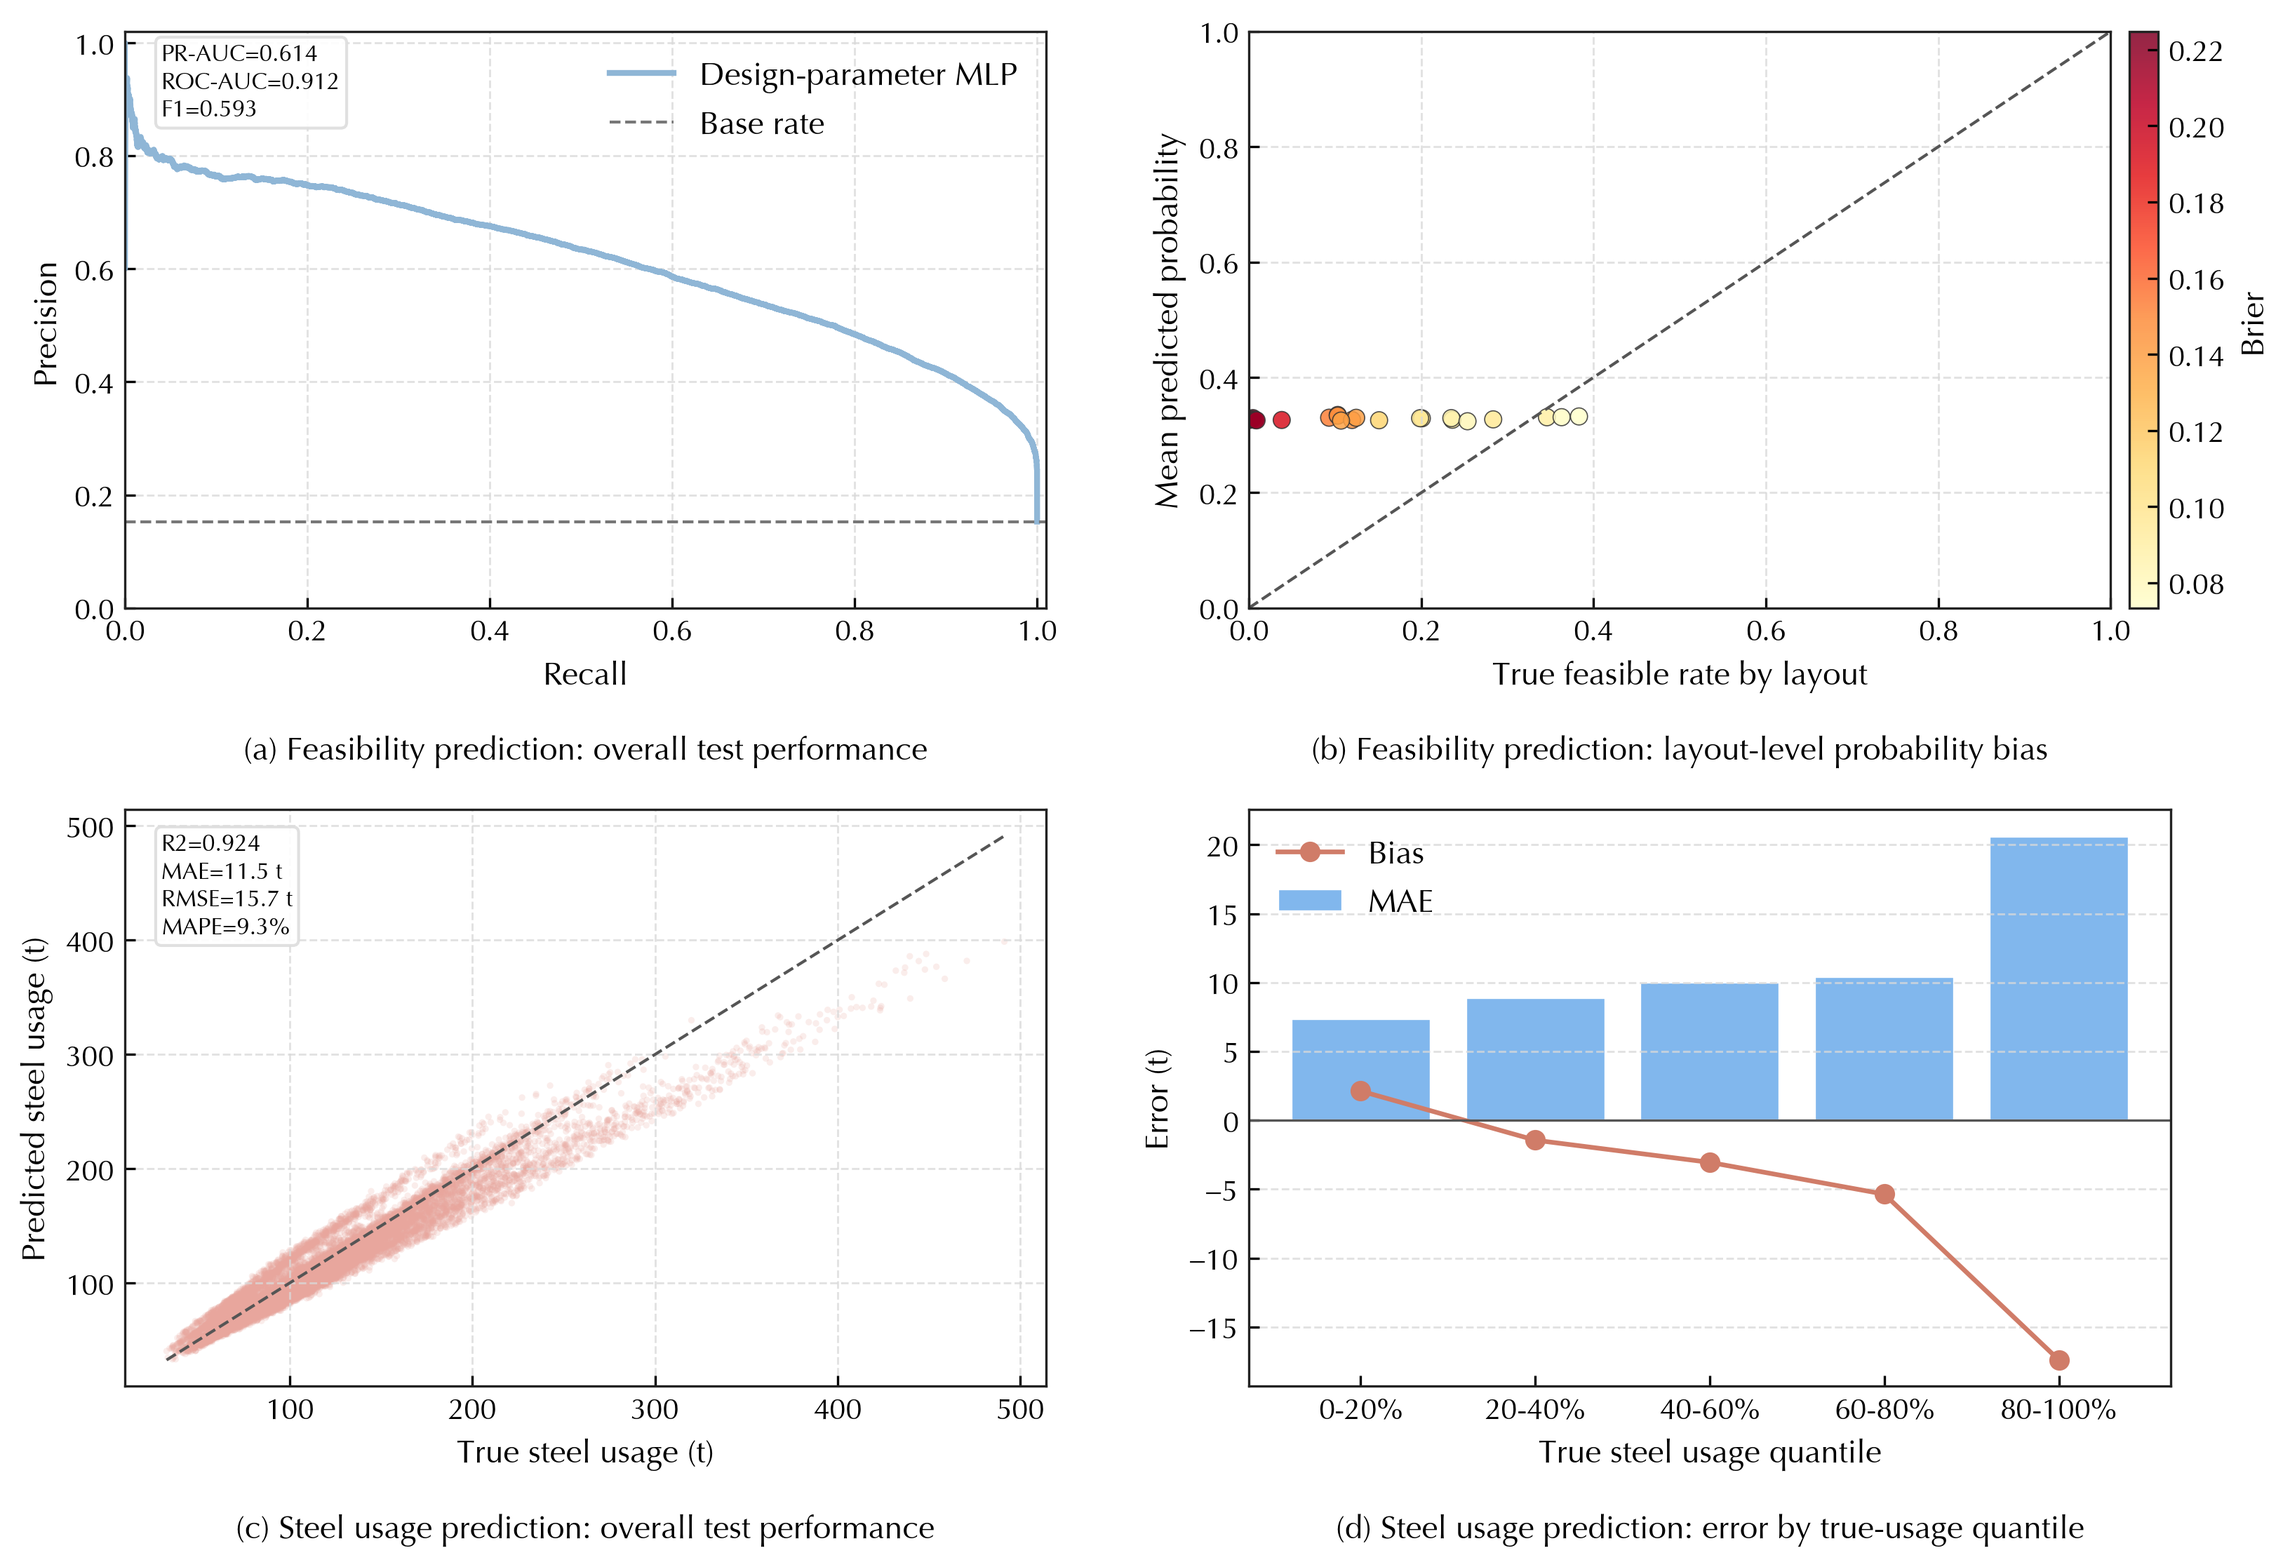
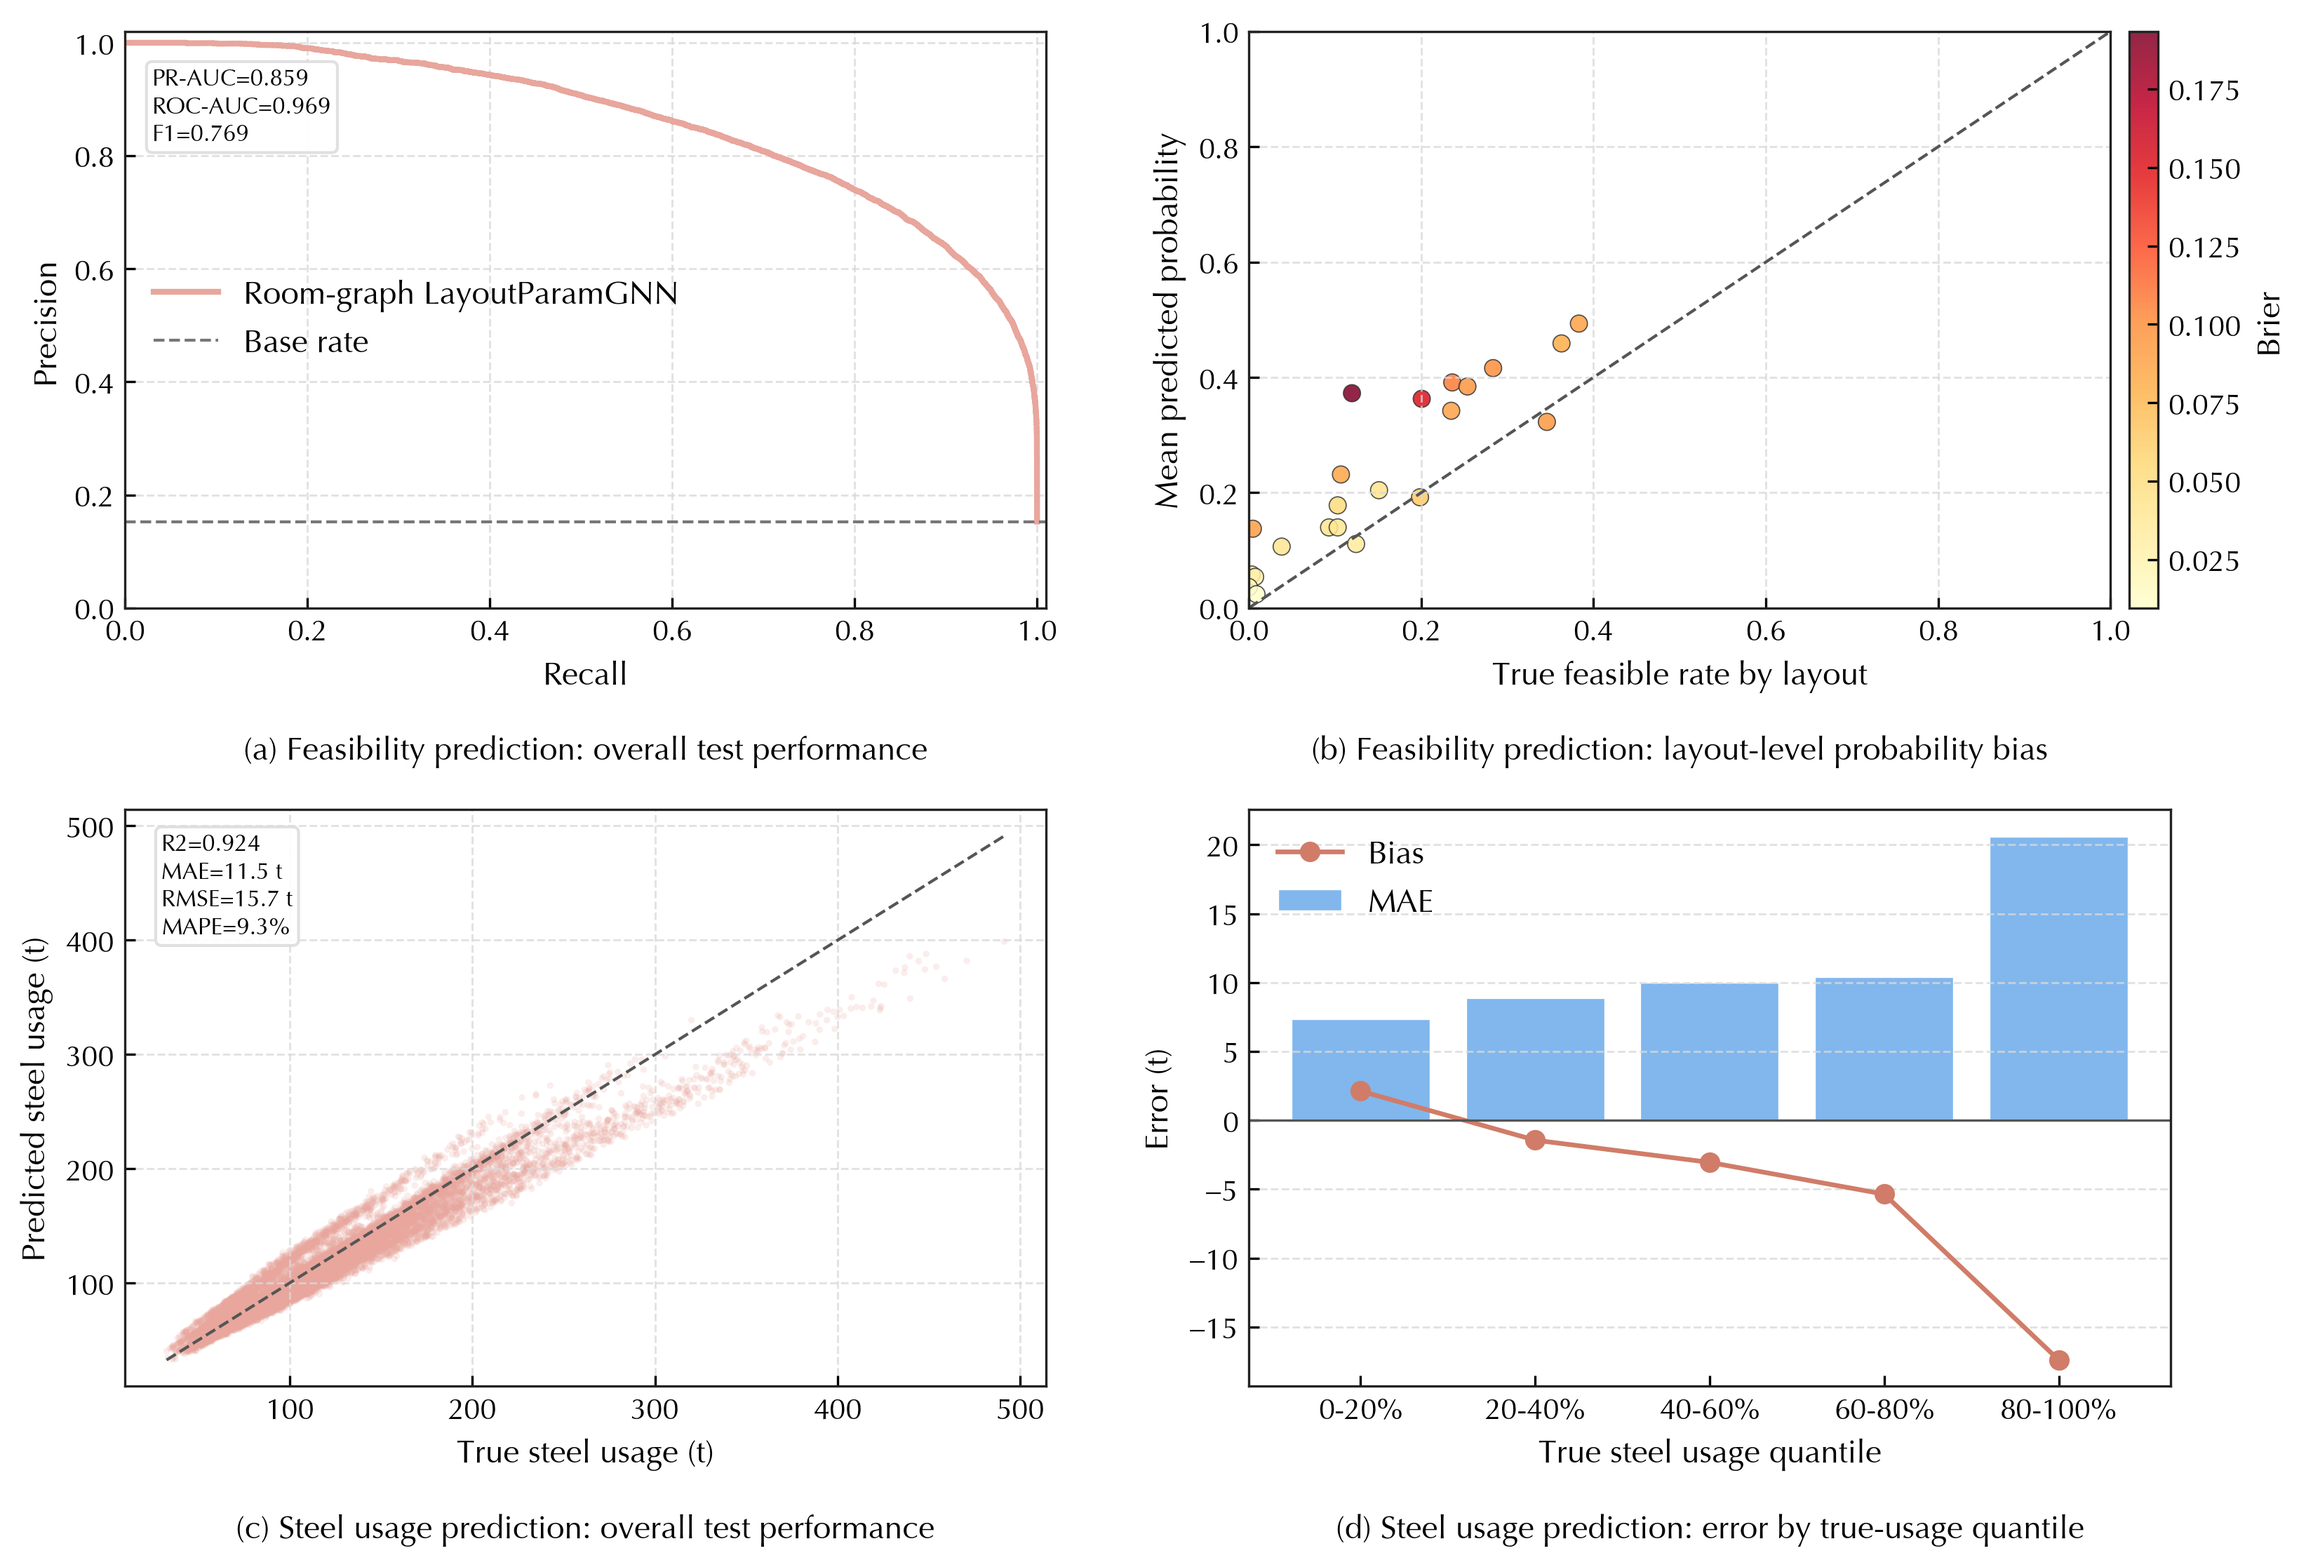
修改图片

diff --git a/docs/paper2/plot/surrogate_model_performance.py b/docs/paper2/plot/surrogate_model_performance.py
@@ -49,7 +49,12 @@ def main() -> None:
     fig_dir.mkdir(parents=True, exist_ok=True)
 
     dataset = load_dataset(args.dataset_path)
-    feasibility = load_feasibility_models(args.feasibility_models, dataset, args.screening_target_recall)
+    feasibility = load_feasibility_models(
+        args.feasibility_models,
+        dataset,
+        args.screening_target_recall,
+        display_model=args.feasibility_display_model,
+    )
     steel = load_steel_models(
         args.steel_models,
         dataset,
@@ -106,6 +111,7 @@ def build_parser() -> argparse.ArgumentParser:
         help="Model specs as label=artifact_dir. Each artifact needs predictions_test.parquet.",
     )
     p.add_argument("--out-dir", default=str(PLOT_DIR))
+    p.add_argument("--feasibility-display-model", default="Room-graph LayoutParamGNN")
     p.add_argument("--screening-target-recall", type=float, default=0.995)
     p.add_argument("--eval-pairs", type=int, default=200000)
     p.add_argument("--large-gap-kg", type=float, default=10000.0)
@@ -122,17 +128,16 @@ def load_dataset(path: str) -> pd.DataFrame:
 
 
 def load_feasibility_models(
-    specs: list[str], dataset: pd.DataFrame, target_recall: float
+    specs: list[str], dataset: pd.DataFrame, target_recall: float, *, display_model: str | None = None
 ) -> dict[str, pd.DataFrame]:
     rows = []
     curves = []
     layout_rows = []
-    best_df = None
-    best_label = None
-    best_reject = -1.0
+    predictions = {}
 
     for label, model_dir in parse_model_specs(specs):
         pred = load_feasibility_predictions(model_dir, dataset)
+        predictions[label] = pred
         metrics = read_json(model_dir / "metrics.json")
         y = pred["y_true"].to_numpy(dtype=int)
         prob = pred["prob"].to_numpy(dtype=float)
@@ -163,12 +168,12 @@ def load_feasibility_models(
         curves.append(curve)
         layout_rows.append(feasibility_layout_metrics(pred, label))
 
-        if row["reject_rate"] > best_reject:
-            best_df = pred
-            best_label = label
-            best_reject = float(row["reject_rate"])
-
     summary = pd.DataFrame(rows)
+    if display_model and display_model in predictions:
+        best_label = display_model
+    else:
+        best_label = str(summary.sort_values("reject_rate", ascending=False).iloc[0]["model"])
+    best_df = predictions[best_label]
     return {
         "summary": summary,
         "screening_curve": pd.concat(curves, ignore_index=True),
@@ -498,12 +503,12 @@ def plot_feasibility_pr_curve(ax: plt.Axes, df: pd.DataFrame, summary: pd.DataFr
     )
     ax.axhline(base_rate, color="#777777", linewidth=1.0, linestyle="--", label="Base rate")
     ax.text(
-        0.04,
-        0.98,
+        0.03,
+        0.80,
         f"PR-AUC={metrics['pr_auc']:.3f}\nROC-AUC={metrics['roc_auc']:.3f}\nF1={metrics['f1']:.3f}",
         transform=ax.transAxes,
         ha="left",
-        va="top",
+        va="bottom",
         fontsize=8,
         bbox={"boxstyle": "round,pad=0.25", "facecolor": "white", "edgecolor": "#dddddd", "alpha": 0.9},
     )
@@ -512,7 +517,7 @@ def plot_feasibility_pr_curve(ax: plt.Axes, df: pd.DataFrame, summary: pd.DataFr
     ax.set_xlim(0.0, 1.01)
     ax.set_ylim(0.0, 1.02)
     ax.grid(True)
-    ax.legend(loc="upper right", frameon=False)
+    ax.legend(frameon=False)
 
 
 def plot_feasibility_layout_calibration(ax: plt.Axes, layout: pd.DataFrame, label: str) -> None:
